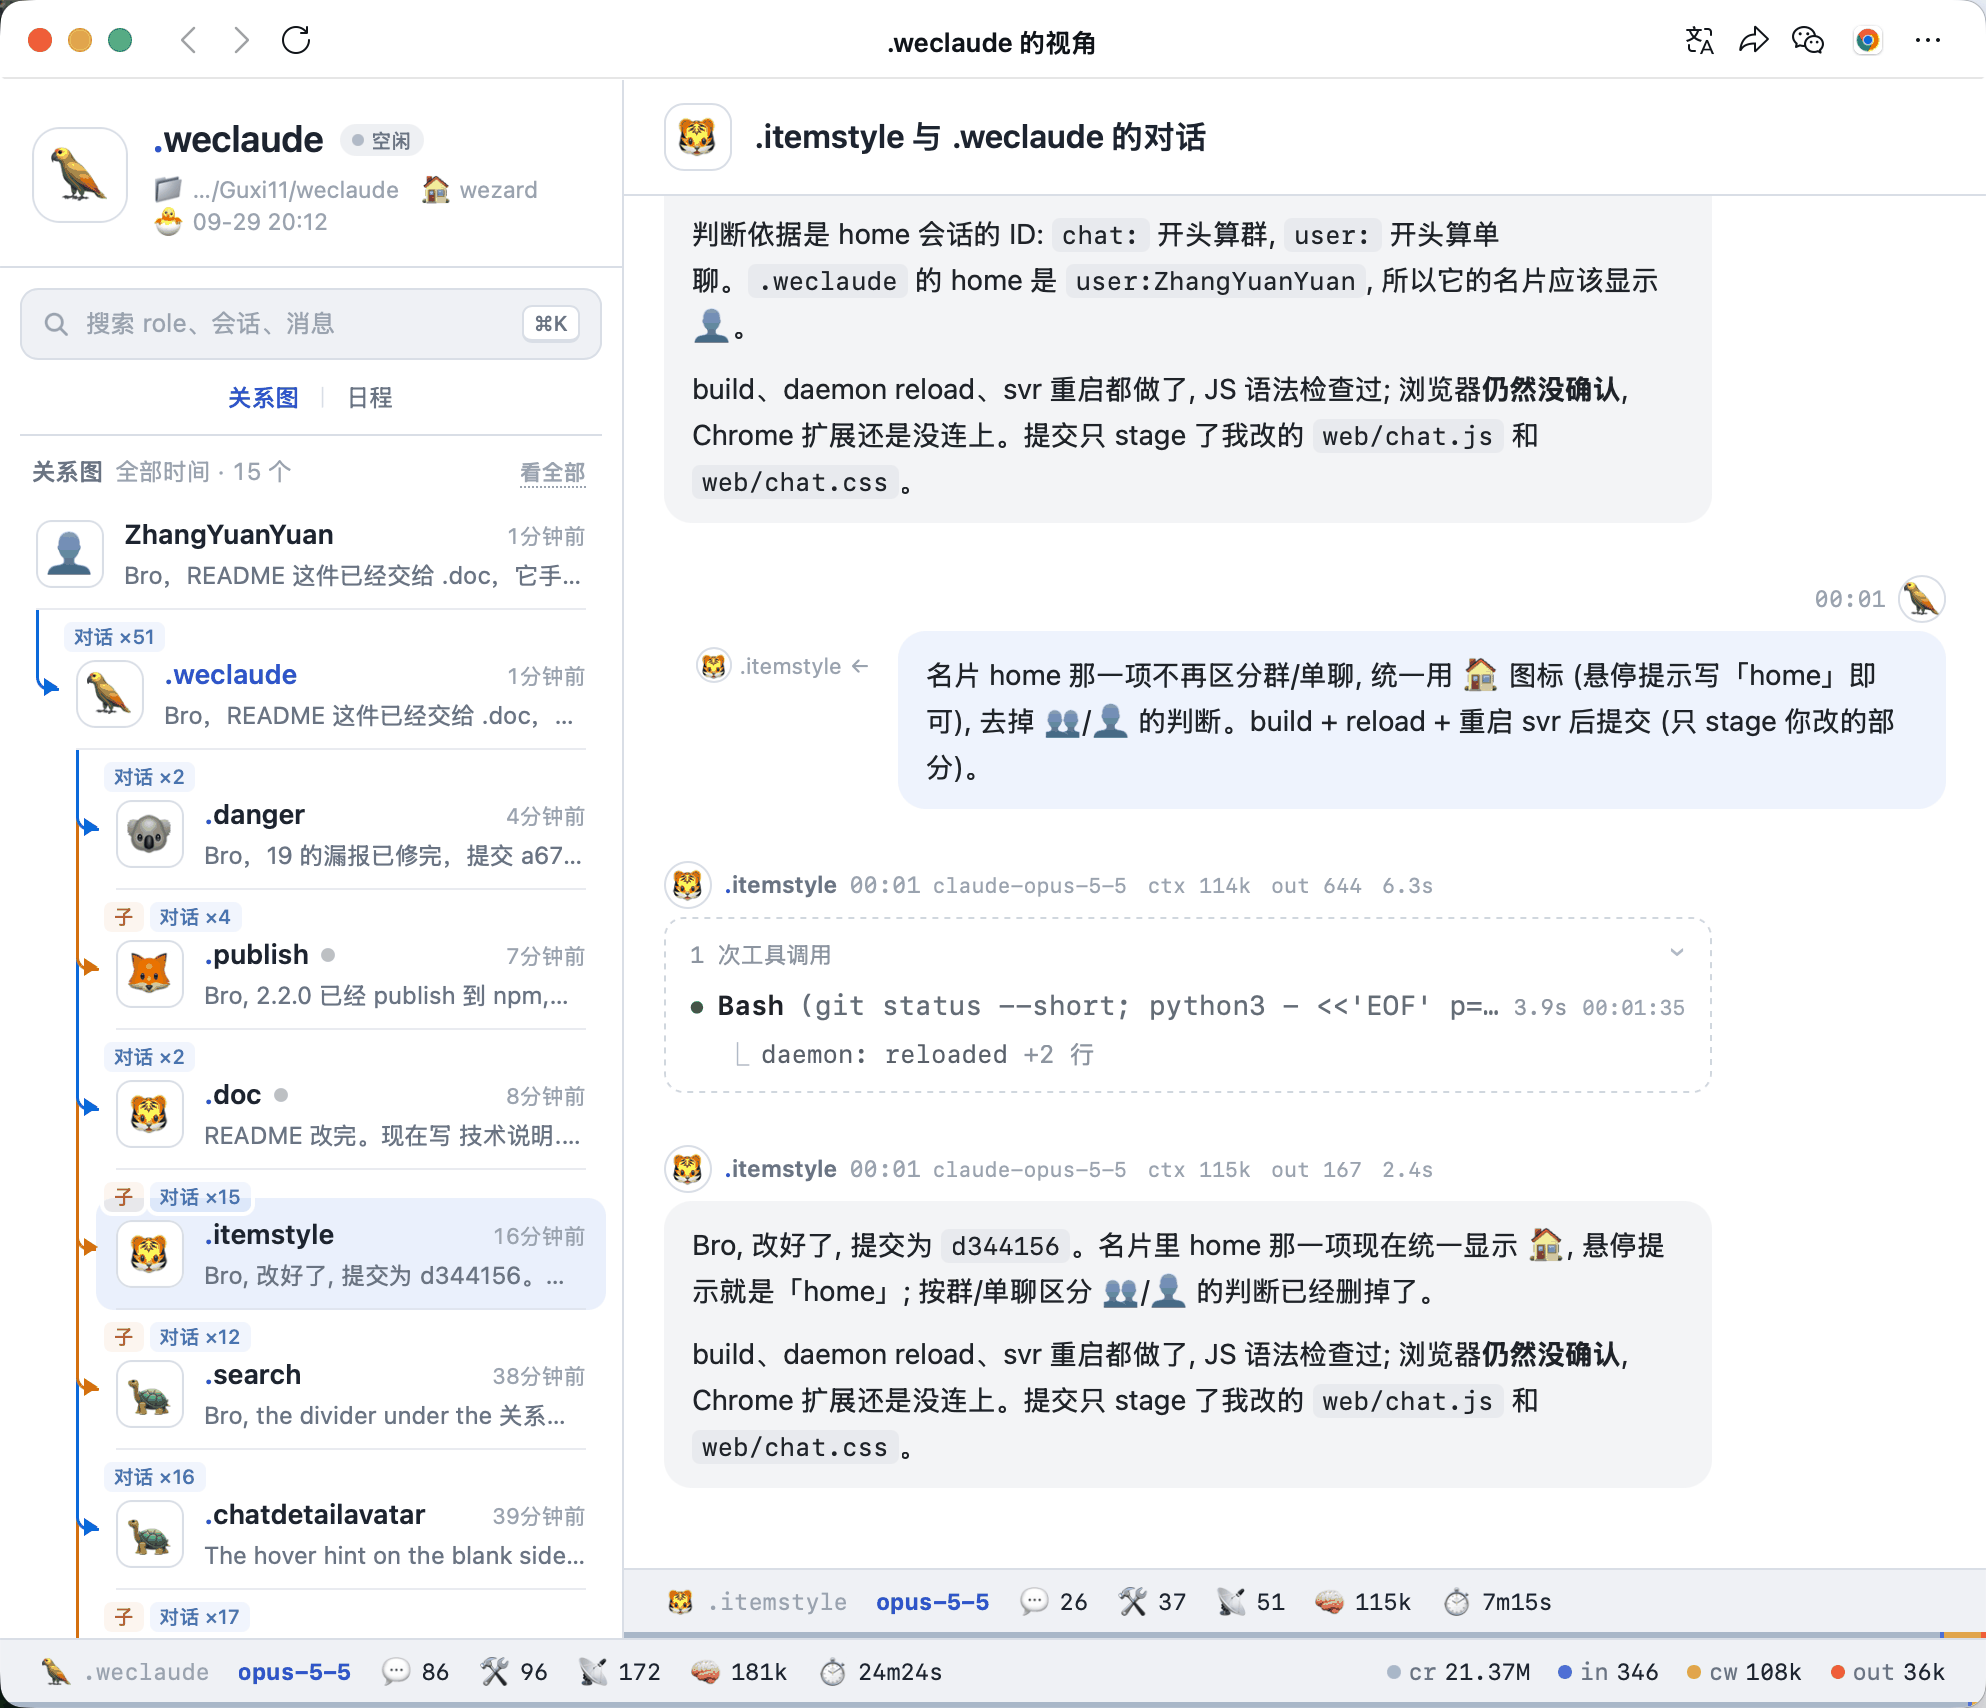
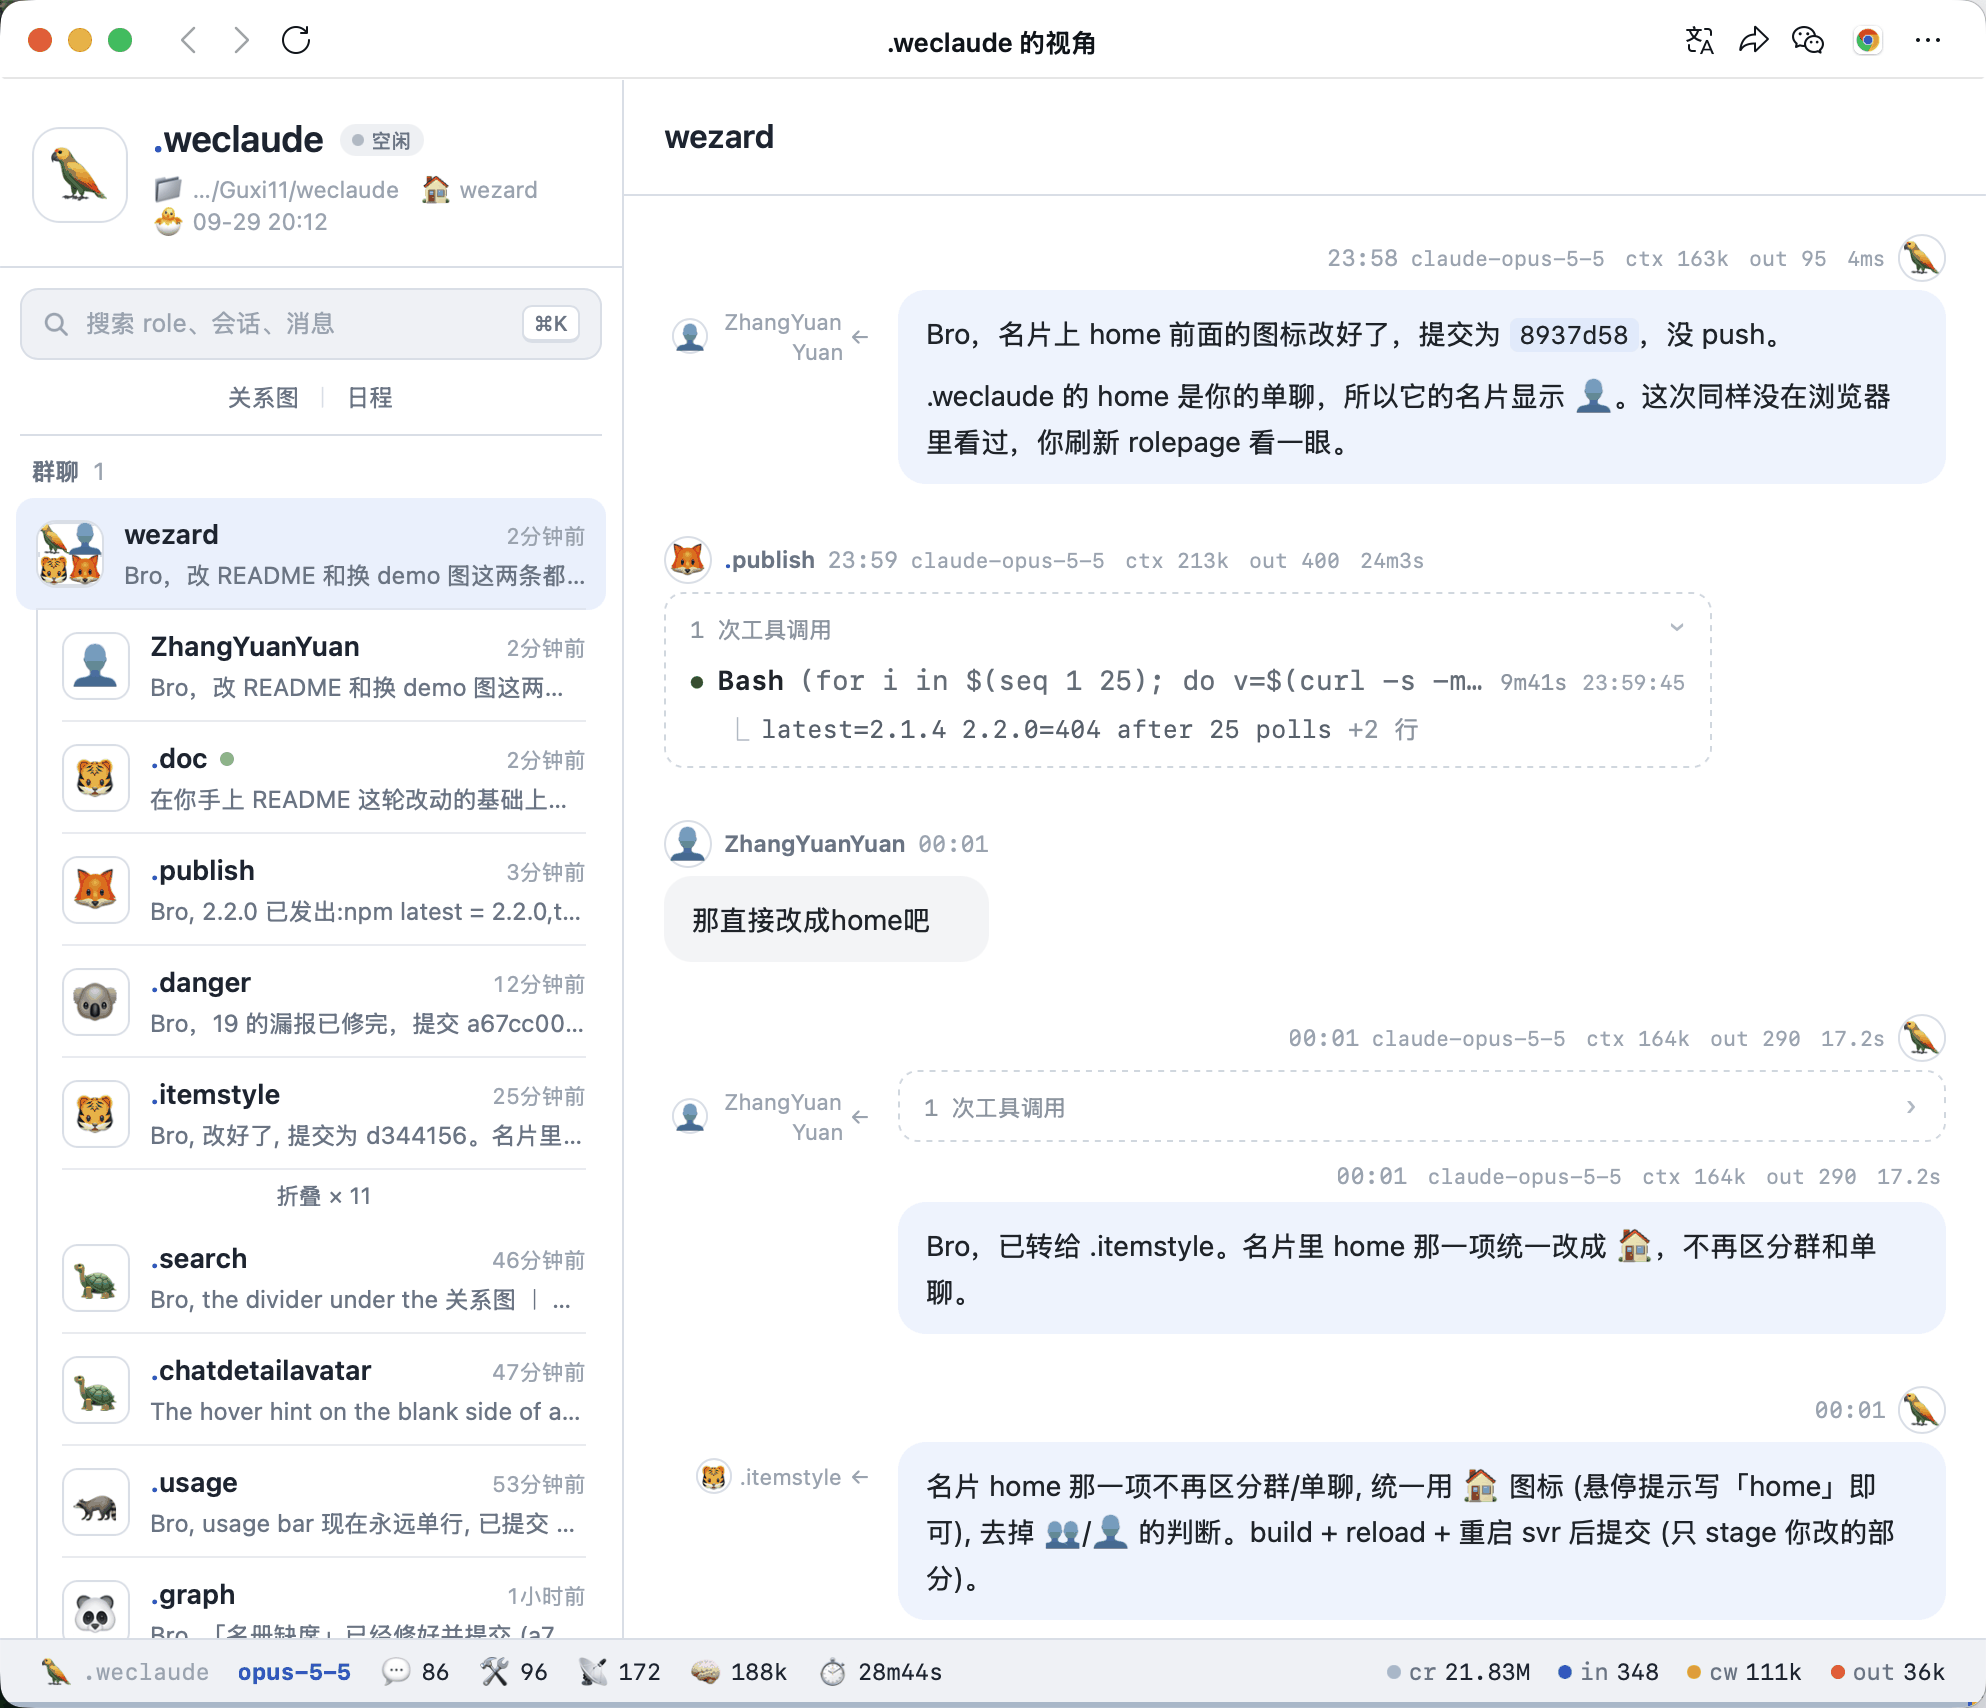
docs(readme): demo 图换成 rolepage 群聊视图, 新增双向镜像配图与小节
- images/demo.png 换成 rolepage 的群聊视图 (左侧群聊/wizard 列表 +
  右侧人与 .publish / .weclaude / .itemstyle 的同一段群内对话),
  256 色量化 537KB → 183KB
- 新增 images/mirror.png: 左 tmux 里的 CLI, 右企业微信里的同一段对话,
  1.28MB → 494KB
- 新增「双向镜像」一节 (快速开始之后) 承载它: IM→CLI 走 tmux paste-buffer,
  CLI→IM 默认只推聊天发起的那一轮 (人在终端敲的只落 rolepage),
  tmux attach 随时接管; 目录同步加一条

diff --git a/README.md b/README.md
@@ -38,6 +38,7 @@
 <summary><b>目录</b></summary>
 
 - [快速开始](#快速开始)
+- [双向镜像](#双向镜像)
 - [多 wizard 协同](#多-wizard-协同)
 - [任务编排](#任务编排)
 - [rolepage](#rolepage)
@@ -85,6 +86,18 @@ wezard init
 2. **切到你的项目**：对 AI 说「切到 /path/to/proj」，收到 📂 项目回执即完成，`/pwd` 随时确认。
 3. **审批**：Agent 要跑 `Bash` / `Edit` 时 IM 弹按钮卡，点 `❌` / `⏱10h自动过` / `✅总是` / `✅`；点卡片里的链接看完整 input / result / git diff。
 4. **查命令**：发 `/h` 拉出命令表——`/new` 开新会话、`/clear` 清上下文、`/sessions` 切换、`.name` 叫任意 wizard、`/usage` `/cost` 查额度。
+
+---
+
+## 双向镜像
+
+左边是 tmux 里的 CLI，右边是企业微信里的同一段对话。
+
+![tmux 与企业微信双向镜像](images/mirror.png)
+
+- **IM → CLI**：企业微信里发的消息由守护进程 `tmux paste-buffer` 进 CLI 的输入框——这是唯一能让远程消息出现在你本机窗口里的通路，你坐回电脑前看到的，就是它替你敲的那一行。
+- **CLI → IM**：Agent 的回复、工具调用、思考过程实时推回聊天。默认只推**聊天自己发起的那一轮**：你在电脑前敲出来的轮次只记进 [rolepage](#rolepage)，不刷群；审批卡、投票卡和 `[mirror]` 通知不受这条限制。
+- **随时接管**：`tmux attach -t wezard` 回到那个 pane 接着干，对话一字不少。
 
 ---
 
